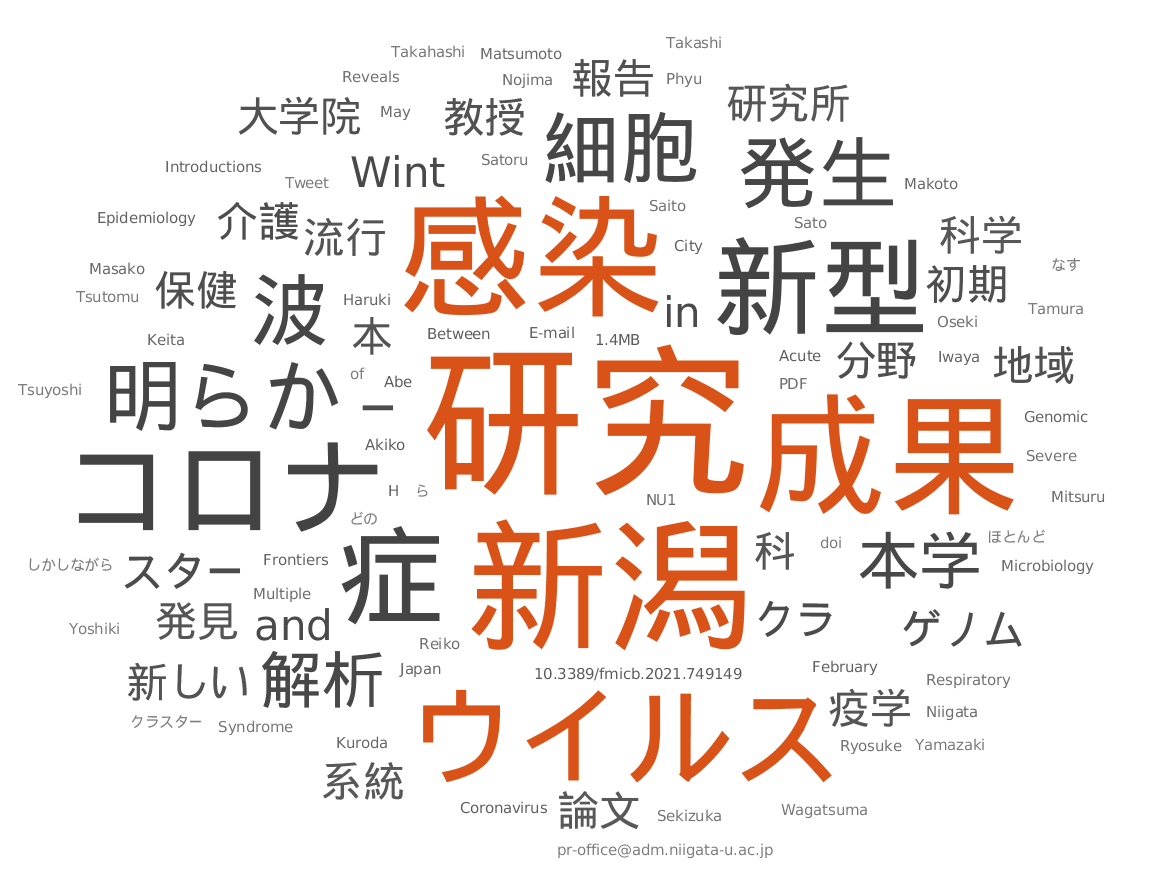
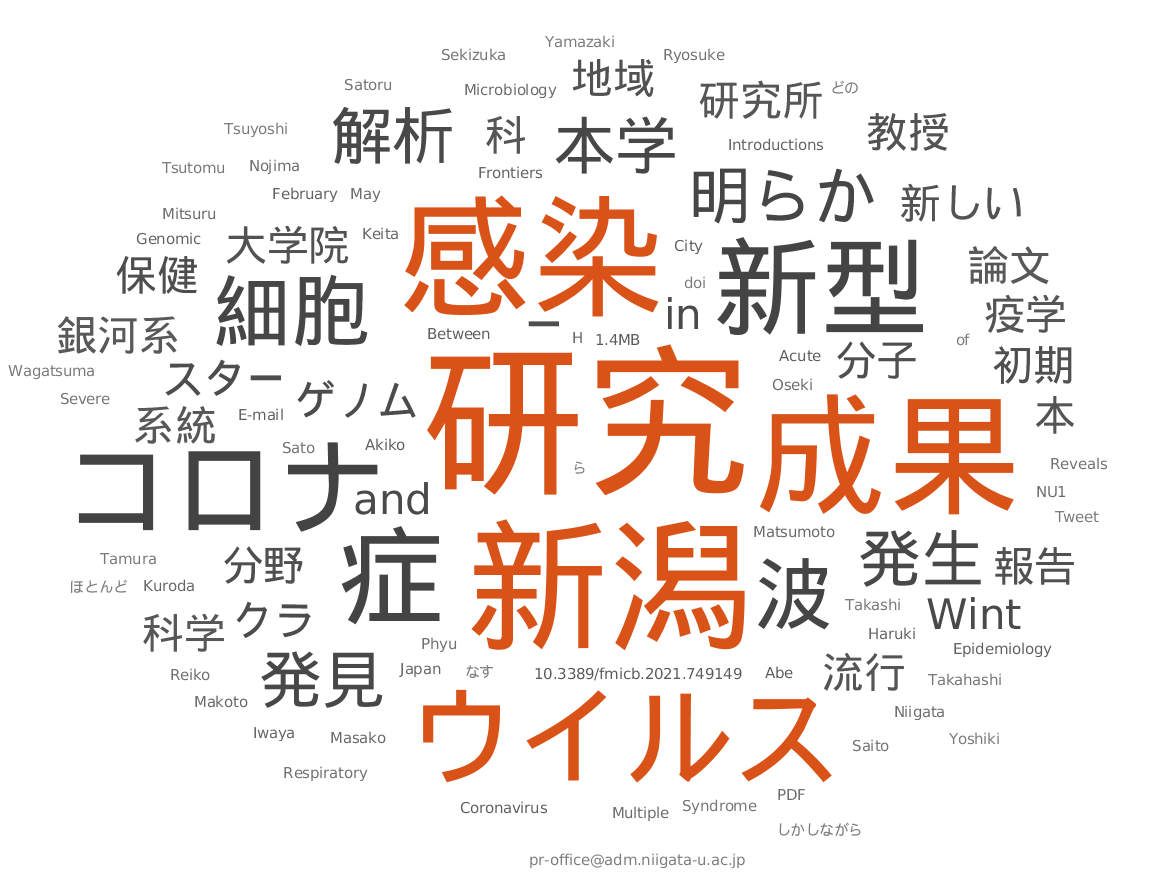
CI autogen [ci skip]

diff --git a/docs/_posts/2021-12-02-銀河系の果てに多様な有機分子を発見－アルマ望遠鏡が捉えた銀河系最外縁部の赤ちゃん星－.md b/docs/_posts/2021-12-02-銀河系の果てに多様な有機分子を発見－アルマ望遠鏡が捉えた銀河系最外縁部の赤ちゃん星－.md
@@ -1,0 +1,7 @@
+---
+layout: post
+title: 銀河系の果てに多様な有機分子を発見－アルマ望遠鏡が捉えた銀河系最外縁部の赤ちゃん星－
+---
+Autogenerated Word Cloud.
+Source\: [https://www.niigata-u.ac.jp/news/2021/97383/](https://www.niigata-u.ac.jp/news/2021/97383/)
+![WordCloud]({{ site.baseurl }}/assets/4b5d969b7f5ee8568f59a7c1520317a1.png)
